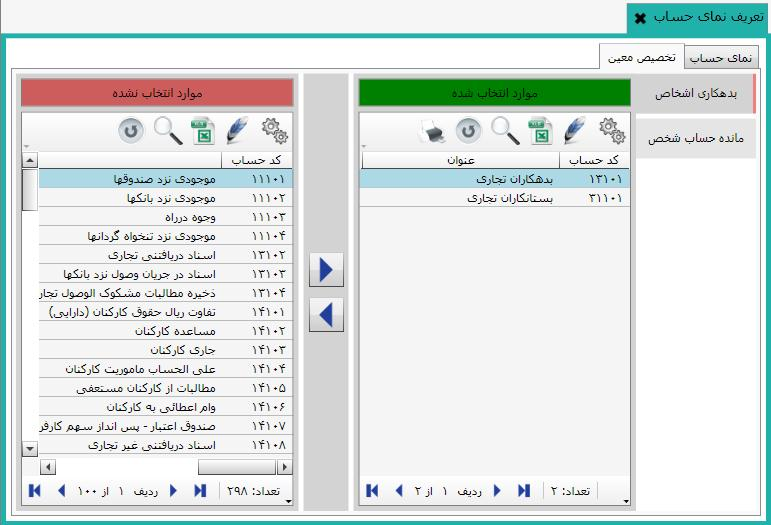
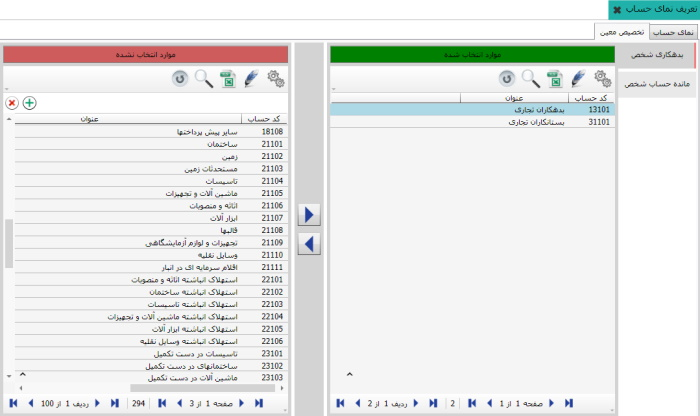
تغییر فرمت متن در وی اس l1 , l2 تغییر فرمت و سایز عکس های

diff --git a/Help/fa-IR/_03_مالی و حسابداری/_03_تعریف نمای حساب/Index.html b/Help/fa-IR/_03_مالی و حسابداری/_03_تعریف نمای حساب/Index.html
@@ -12,7 +12,8 @@
 		<h1> تعریف نمای حساب </h1>
 	</div>
 	<p>
-		این صفحه دارای دو تب «نمای حساب» و «تخصیص معین» می باشد که با انتخاب هر یک صفحه مربوط به آن ظاهر می شود.
+		این صفحه دارای دو تب «نمای حساب» و «تخصیص معین» می باشد
+		 که با انتخاب هر یک صفحه مربوط به آن ظاهر می شود.
 	</p>
 	<hr />
 	<h2> نمای حساب </h2>
@@ -24,8 +25,10 @@
 	<hr />
 	<h2> تخصیص معین </h2>
 	<p>
-		در صفحه تخصیص معین به نمای ساخته شده در صفحه قبل معین های مورد نیاز را تخصیص میدهید. با این کار شما در هر قسمت
-		از نرم افزار از این نما استفاده کنید گردش حساب را براساس معیین های این نما به شما نشان میدهد.
+		در صفحه تخصیص معین به نمای ساخته شده در صفحه قبل 
+		معین های مورد نیاز را تخصیص میدهید. با این کار شما در هر قسمت
+		از نرم افزار از این نما استفاده کنید گردش
+		 حساب را براساس معیین های این نما به شما نشان میدهد.
 	</p>
 	<img class="LargPic" src="l2.jpg" />
 
